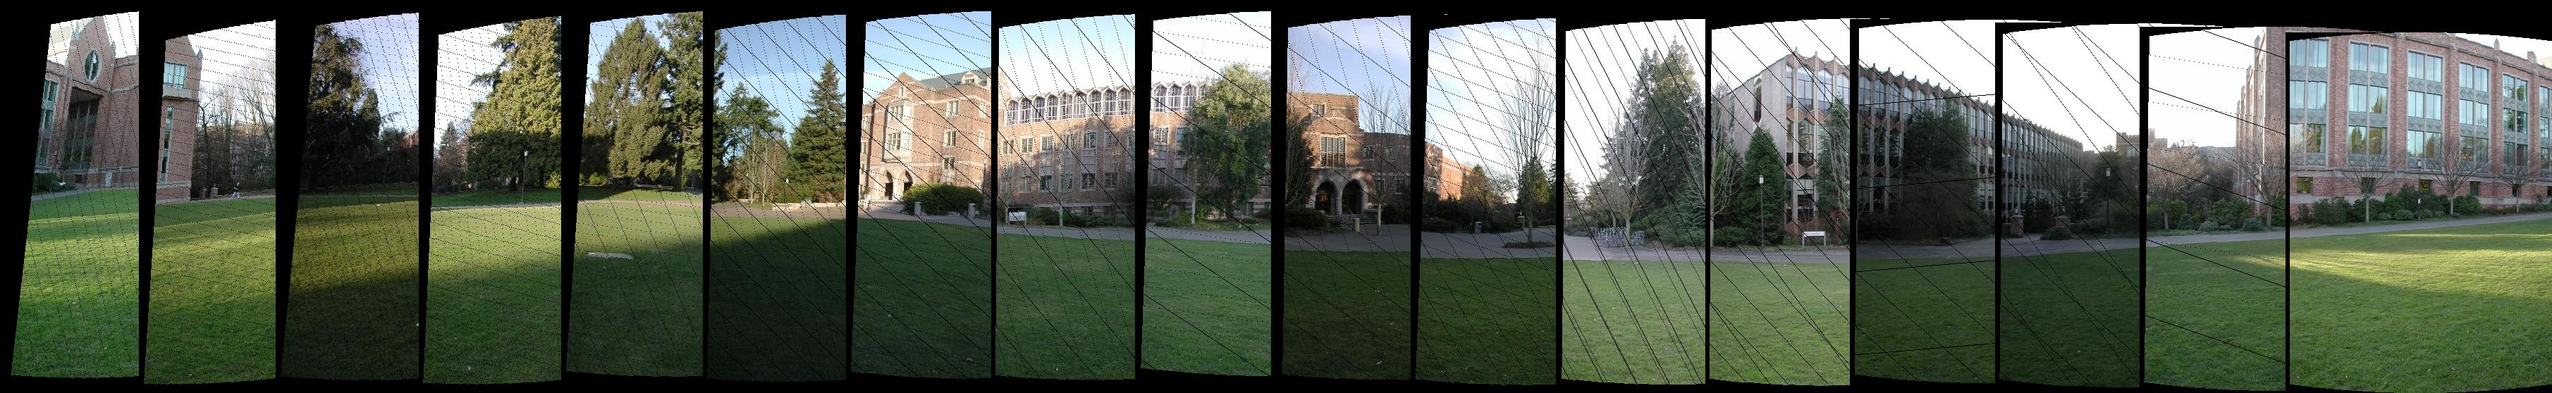
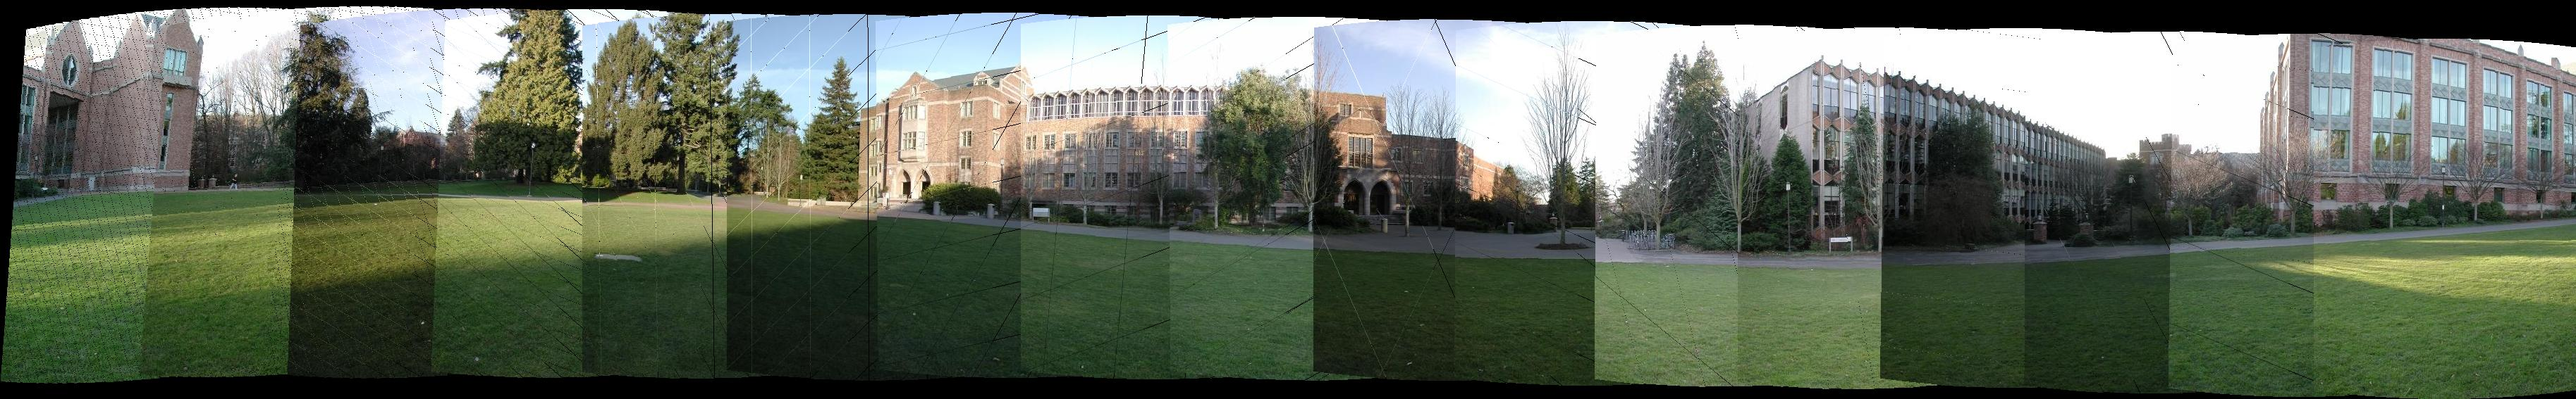
update combineimages function

diff --git a/code/CombineImages.m b/code/CombineImages.m
@@ -41,15 +41,15 @@ minCol = round(minCol);
 tmp = minCol;
 minCol = minRow;
 minRow = tmp;
-display(strcat('The min row is:', num2str(minRow)));
-display(strcat('The min col is:', num2str(minCol)));
-display(strcat('The max row is:', num2str(maxRow)));
-display(strcat('The max col is:', num2str(maxCol)));
+% display(strcat('The min row is:', num2str(minRow)));
+% display(strcat('The min col is:', num2str(minCol)));
+% display(strcat('The max row is:', num2str(maxRow)));
+% display(strcat('The max col is:', num2str(maxCol)));
 
 newNumRows = abs(minRow) + img2rows;
 newNumCols = abs(minCol) + img2cols;
-display(strcat('The new num rows is:', num2str(newNumRows)));
-display(strcat('The new num cols is:', num2str(newNumCols)));
+% display(strcat('The new num rows is:', num2str(newNumRows)));
+% display(strcat('The new num cols is:', num2str(newNumCols)));
 
 combinedImage = zeros(newNumRows, newNumCols,3);
 
@@ -63,7 +63,10 @@ for i = 1:img1rows
         warpedPixel = round(warpedPixel);
         
         if (warpedPixel(2) + 1 > abs(minRow))
-            %currPoint = currPoint * (maxCol - warpedPixel(2) + 1) / maxCol;
+            %display(num2str(double((maxCol - warpedPixel(2) + 1)) / double(maxCol)));
+            currPoint = double(currPoint) * double((maxCol - warpedPixel(2) + 1)) / double(maxCol);
+            currPoint = uint8(currPoint);
+            %display(currPoint);
             combinedImage(warpedPixel(1) + abs(minCol) + 1, warpedPixel(2) + abs(minRow) + 1, :) = currPoint;
         else
             combinedImage(warpedPixel(1) + abs(minCol) + 1, warpedPixel(2) + abs(minRow) + 1, :) = currPoint;
@@ -78,13 +81,23 @@ for i = 1:img2rows
             continue;
         end
         if (j < maxCol)
-            %currPoint = 
+            %currPoint = currPoint * 
             combinedImage(i + abs(minRow), j + abs(minCol), :) = currPoint;
         else
             combinedImage(i + abs(minRow), j + abs(minCol), :) = currPoint;
         end
     end
 end
+
+% for i = 1:newNumRows
+%     for j = 1:newNumCols
+%         if (isequal(combinedImage(i,j,:),zeros(1,1,3)))
+%             combinedImage(i,j,:) = (combinedImage(min(newNumRows,i + 1),j,:) + ...
+%                 combinedImage(max(1, i - 1),j,:) + combinedImage(i,min(newNumCols,j + 1),:) + ...
+%                 combinedImage(i,max(1, j - 1),:)) / 4;
+%         end
+%     end
+% end
 
 combinedImage = uint8(combinedImage);
 

diff --git a/code/CreateStitchedImage.m b/code/CreateStitchedImage.m
@@ -17,6 +17,7 @@ mkdir(outDir);
 panorama = cropImg(reshape(pixarray(1,:,:,:),imgrows,imgcols,3));
 
 for i = 2:size(pixarray,1)
+    display(strcat('Combining with image: ', num2str(i)));
     currimg = cropImg(reshape(pixarray(i,:,:,:),imgrows,imgcols,3));
     if (direction == 1)
        % h = SiftAndRansacRandomEpsAndN(panorama, currimg, smallP);
@@ -31,7 +32,7 @@ for i = 2:size(pixarray,1)
     imwrite(panorama, strcat(outDir, '/PANO_', num2str(i), '.jpg'));
 end
 
-imshow(panorama);
+%imshow(panorama);
 
 end
 

diff --git a/code/PanoramaMain.m b/code/PanoramaMain.m
@@ -5,10 +5,10 @@ function [] = PanoramaMain(inDir, f)
     %f=660;
     DO_FLAG=1;
     DO_FLAG=0;
-    DO_PRINT_IMG=1;
-    %DO_PRINT_IMG=0;
+    %DO_PRINT_IMG=1;
+    DO_PRINT_IMG=0;
     startup;
-    srgStartup;
+    %srgStartup;
     warning('off','all');
     outDir=strcat(inDir,'PANO_',datestr(now,'mmddyyyy_HHMMSSFFF'));
     mkdir(outDir);
